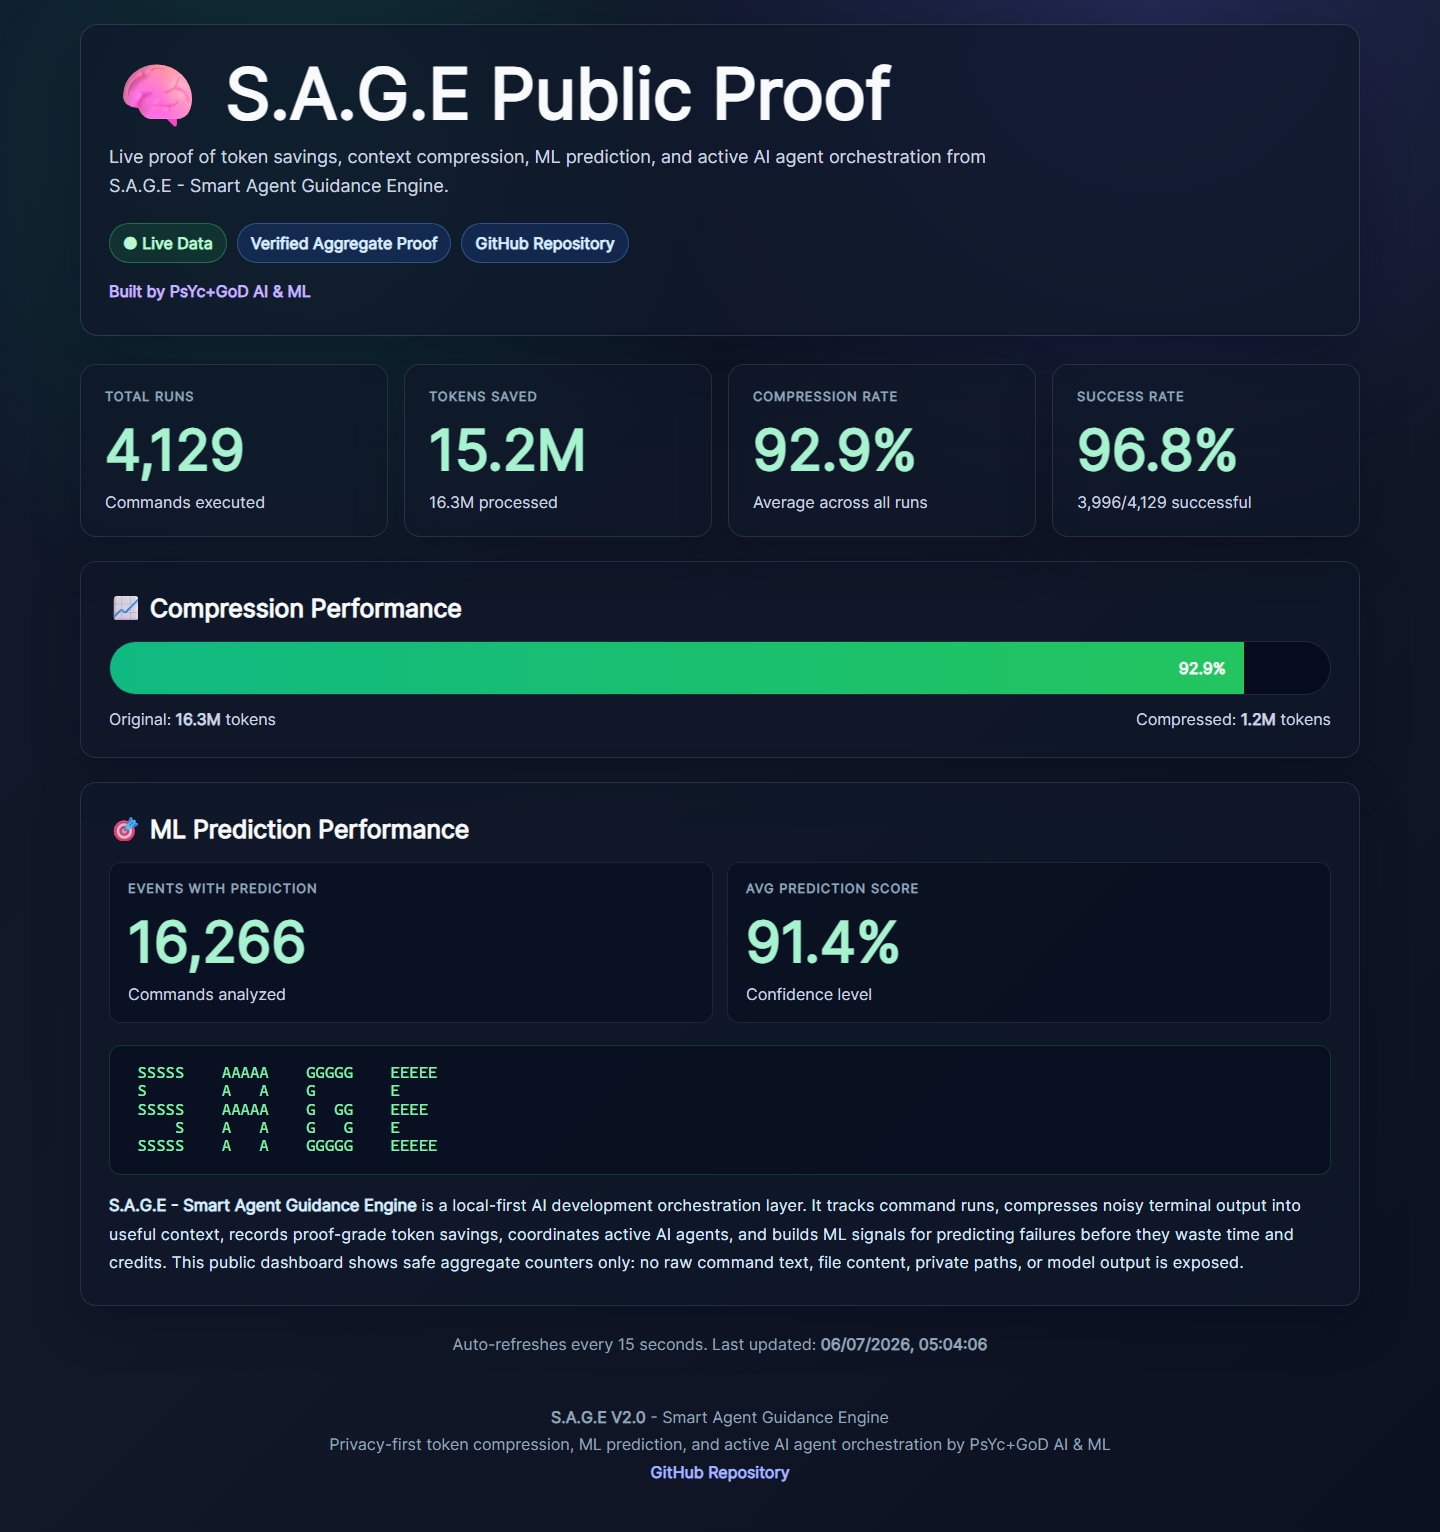
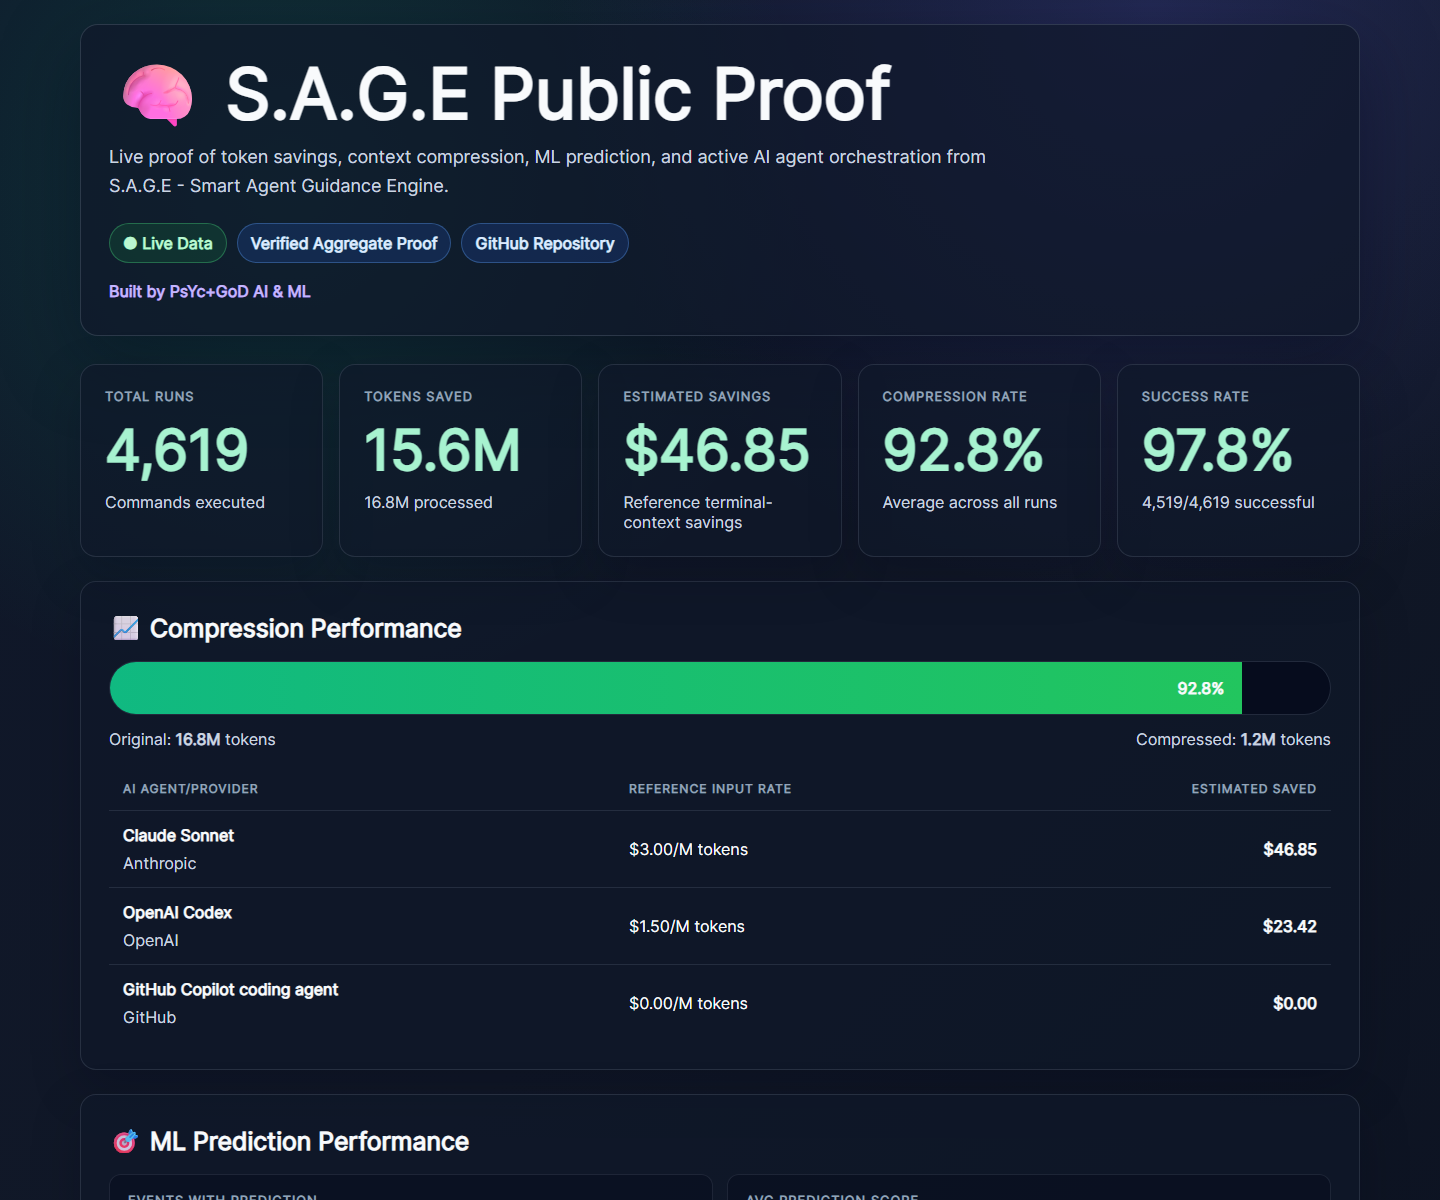
Deploy public proof to current Cloudflare account

Changed region(s): [[0.0625, 0.0308, 0.9375, 1.0], [0.0938, 0.9867, 0.2188, 1.0]]

diff --git a/cloudflare/sage-api/src/worker.js b/cloudflare/sage-api/src/worker.js
@@ -3,6 +3,7 @@ const ALLOWED_ORIGINS = [
   "http://localhost:8765",           // SAGE GUI local
   "http://127.0.0.1:8765",           // Alternative localhost
   "https://sage.api.marketingstudios.in",  // Public dashboard
+  "https://sage-api.valan-dj.workers.dev", // Current public Worker
 ];
 
 const SAVINGS_PROFILES = [
@@ -197,7 +198,7 @@ const PUBLIC_PROOF_DASHBOARD_HTML = `<!DOCTYPE html>
   </div>
 
   <script>
-    const API_ENDPOINT = "https://sage.api.marketingstudios.in/v1/proof";
+    const API_ENDPOINT = window.location.origin + "/v1/proof";
     function formatNumber(num) {
       num = Number(num || 0);
       if (num >= 1000000) return (num / 1000000).toFixed(1) + "M";

diff --git a/src/sage/telemetry.py b/src/sage/telemetry.py
@@ -27,8 +27,8 @@ from .security import redact_text
 from .store import connect, data_dir
 
 SCHEMA_VERSION = "1.0"
-DEFAULT_API_BASE_URL = "https://sage.api.marketingstudios.in"
-FALLBACK_API_BASE_URL = "https://sage-api.pascoaldsouza28.workers.dev"
+DEFAULT_API_BASE_URL = "https://sage-api.valan-dj.workers.dev"
+FALLBACK_API_BASE_URL = "https://sage.api.marketingstudios.in"
 KEYRING_SERVICE = "psycgod-sage"
 
 # 🔒 SECURITY: Master key for API key generation

diff --git a/src/sage/cli.py b/src/sage/cli.py
@@ -357,7 +357,7 @@ def _add_login_args(parser: argparse.ArgumentParser) -> None:
     parser.add_argument("--public-profile", action="store_true", help="Show this profile on public proof leaderboards.")
     parser.add_argument("--privacy-max", type=int, default=1, choices=[0, 1, 2, 3, 4], help="Maximum telemetry level allowed for this key.")
     parser.add_argument("--scope", default="personal", help="API key scope label.")
-    parser.add_argument("--endpoint", default="", help="SAGE API base URL. Defaults to sage.api.marketingstudios.in.")
+    parser.add_argument("--endpoint", default="", help="SAGE API base URL. Defaults to sage-api.valan-dj.workers.dev.")
     parser.add_argument("--expiry-days", type=int, choices=[30, 60, 90], help="API key expiration in days.")
 
 def main(argv: list[str] | None = None) -> int:

diff --git a/README.md b/README.md
@@ -11,7 +11,7 @@ The public package is CLI-first. The desktop GUI is not included in this public 
 
 ## Live Public Proof Dashboard
 
-Live dashboard: https://sage.api.marketingstudios.in/dashboard
+Live dashboard: https://sage-api.valan-dj.workers.dev/dashboard
 
 ![SAGE Live Public Proof Dashboard](docs/assets/sage-live-dashboard.png)
 
@@ -27,13 +27,13 @@ Latest verified snapshot:
 
 | Metric | Value |
 |--------|------:|
-| Commands processed | 4,525 |
-| Tokens processed | 16,806,661 |
-| Tokens compressed | 1,200,245 |
-| Tokens saved | 15,606,416 |
-| Estimated savings | $46.82 |
-| Compression rate | 92.86% |
-| Success rate | 97.28% |
+| Commands processed | 4,617 |
+| Tokens processed | 16,827,865 |
+| Tokens compressed | 1,211,678 |
+| Tokens saved | 15,616,187 |
+| Estimated savings | $46.85 |
+| Compression rate | 92.80% |
+| Success rate | 97.77% |
 
 These stats reflect the public CLI proof snapshot after the hosted dashboard went live.
 Raw commands, outputs, file paths, and logs stay local by default. Public proof uses aggregate counters only.

diff --git a/cloudflare/sage-api/README.md b/cloudflare/sage-api/README.md
@@ -7,8 +7,8 @@ Public SAGE API Worker for opt-in telemetry, API key bootstrap, and aggregate pr
 | Resource | Name |
 |---|---|
 | Worker | `sage-api` |
-| Custom domain | `https://sage.api.marketingstudios.in` |
-| Workers.dev fallback | `https://sage-api.pascoaldsouza28.workers.dev` |
+| Current public Worker | `https://sage-api.valan-dj.workers.dev` |
+| Previous custom domain | `https://sage.api.marketingstudios.in` |
 | D1 database | `sage_telemetry` |
 | D1 database ID | `30dce3a3-6f7f-423c-9f29-4ff812685752` |
 | Queue | `sage-telemetry-queue` |
@@ -101,11 +101,11 @@ sage telemetry send --for-real
 Public proof:
 
 ```text
-https://sage.api.marketingstudios.in/v1/proof
+https://sage-api.valan-dj.workers.dev/v1/proof
 ```
 
 The fallback endpoint remains:
 
 ```text
-https://sage-api.pascoaldsouza28.workers.dev/v1/proof
+https://sage.api.marketingstudios.in/v1/proof
 ```

diff --git a/cloudflare/sage-api/DEPLOYMENT.md b/cloudflare/sage-api/DEPLOYMENT.md
@@ -57,7 +57,7 @@ sage connect --display-name "Test User"
 # Should succeed with: ✅ SAGE API connected
 
 # Try connecting WITHOUT master key (simulate hacker):
-curl -X POST https://sage.api.marketingstudios.in/v1/keys \
+curl -X POST https://sage-api.valan-dj.workers.dev/v1/keys \
   -H "Content-Type: application/json" \
   -d '{"display_name": "Hacker"}'
 